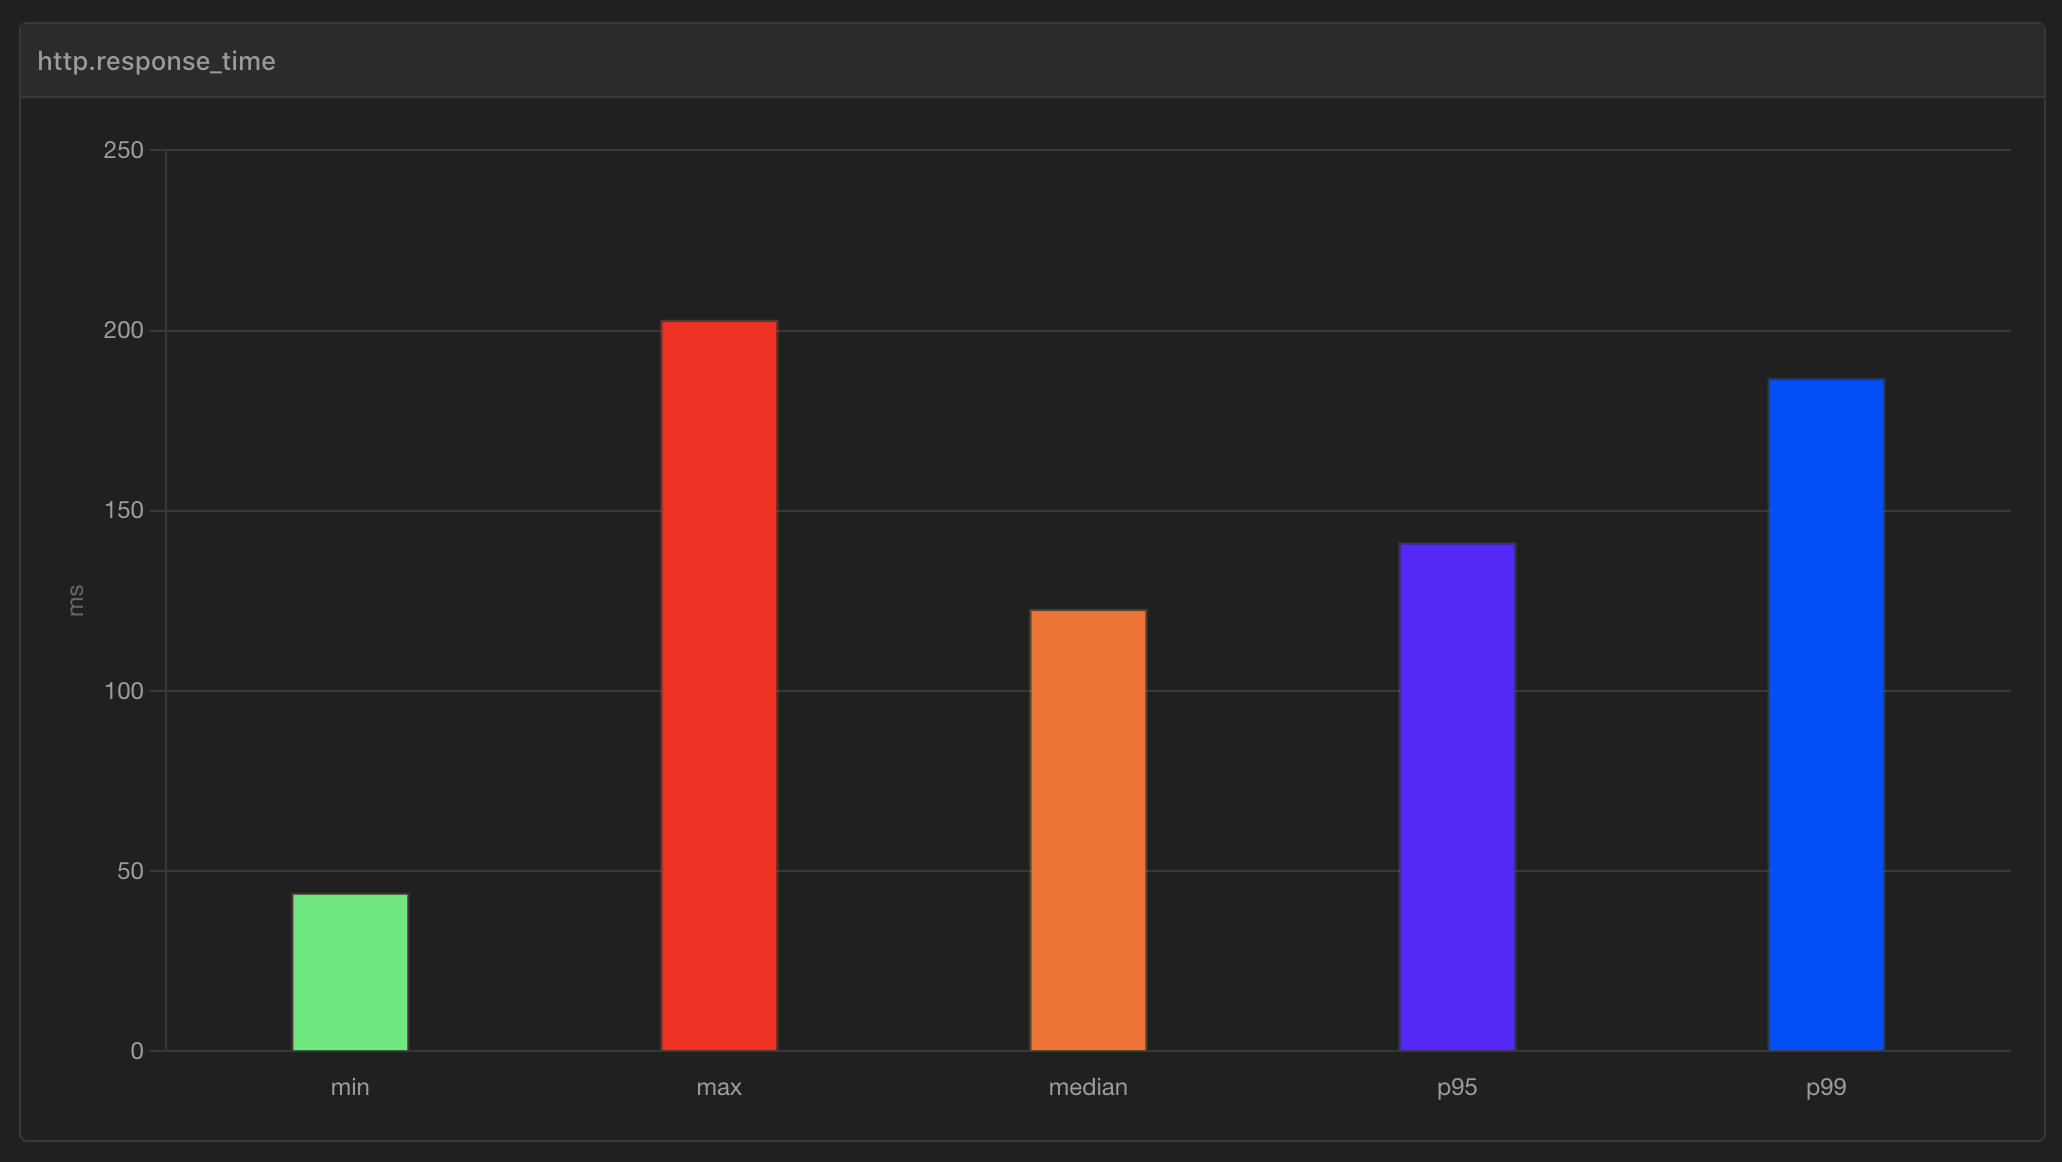
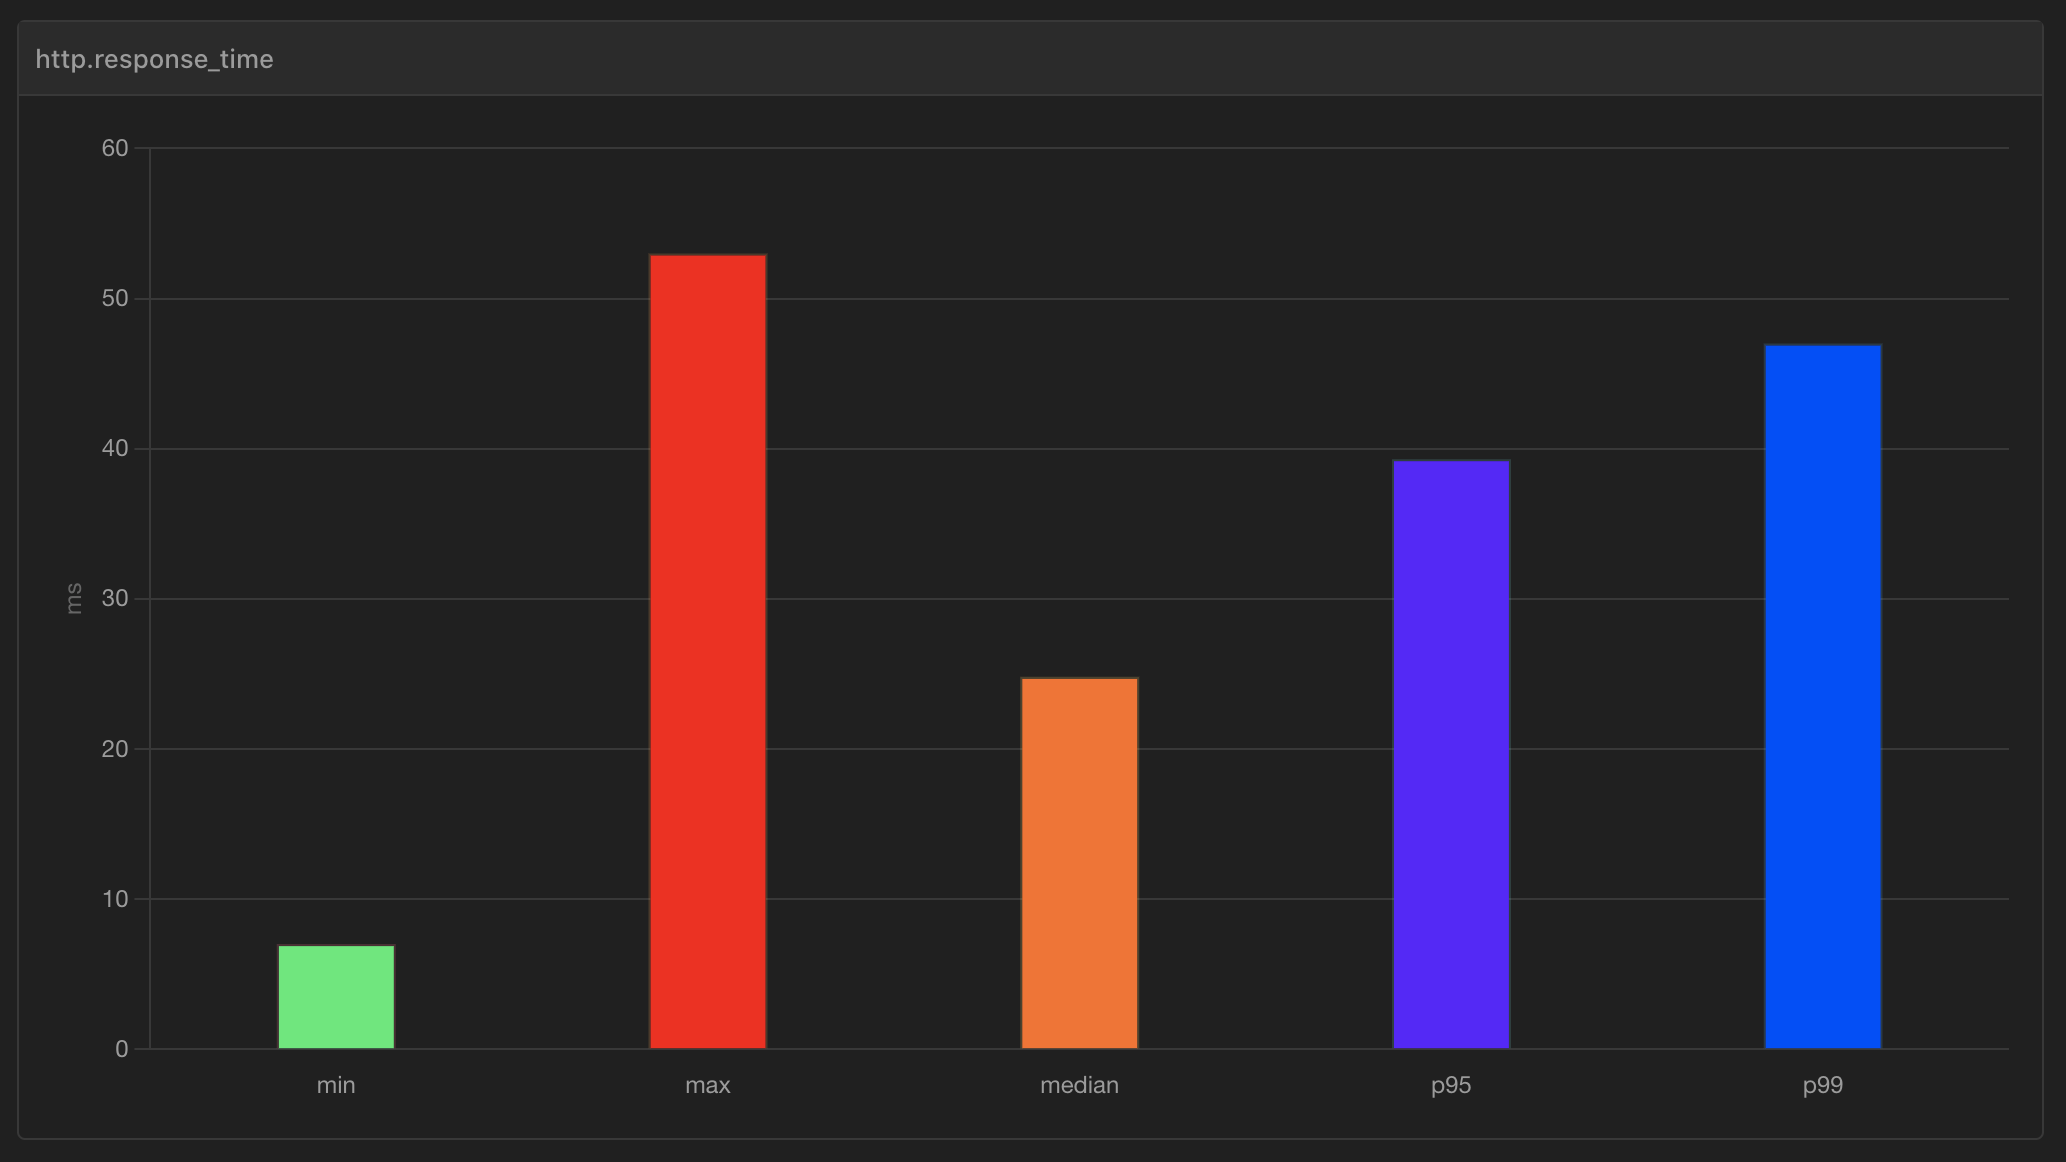
README adjusted with more screenshots on load report files and response time chart

diff --git a/README.md b/README.md
@@ -7,9 +7,10 @@
 5. [API Configuration (rate limiting & throttling)](https://github.com/juanroldan1989/terraform-with-rest-api-gateway-and-lambda-functions#api-configuration-rate-limiting--throttling)
 6. [API Testing](https://github.com/juanroldan1989/terraform-with-rest-api-gateway-and-lambda-functions#api-testing)
 7. [CI/CD (Github Actions -> Terraform -> AWS)](https://github.com/juanroldan1989/terraform-with-rest-api-gateway-and-lambda-functions#cicd-github-actions---terraform---aws)
-8. [REST APIs vs HTTP APIs](https://github.com/juanroldan1989/terraform-with-rest-api-gateway-and-lambda-functions#rest-apis-vs-http-apis)
-9. [API Development Lifecycle](https://github.com/juanroldan1989/terraform-with-rest-api-gateway-and-lambda-functions#api-development-lifecycle)
-10. [Further improvements](https://github.com/juanroldan1989/terraform-with-rest-api-gateway-and-lambda-functions#further-improvements)
+8. [Observability, Error Tracking & Cost Monitoring](https://github.com/juanroldan1989/terraform-with-rest-api-gateway-and-lambda-functions#observability-error-tracking--cost-monitoring)
+9. [REST APIs vs HTTP APIs](https://github.com/juanroldan1989/terraform-with-rest-api-gateway-and-lambda-functions#rest-apis-vs-http-apis)
+10. [API Development Lifecycle](https://github.com/juanroldan1989/terraform-with-rest-api-gateway-and-lambda-functions#api-development-lifecycle)
+11. [Further improvements](https://github.com/juanroldan1989/terraform-with-rest-api-gateway-and-lambda-functions#further-improvements)
 
 <img src="https://github.com/juanroldan1989/terraform-with-rest-api-gateway-and-lambda-functions/raw/main/screenshots/load-test-report.png" width="100%" />
 
@@ -90,7 +91,7 @@ Note:
 
 - To create and deploy **REST APIs**, use Amazon **API Gateway Version 1** resources.
 
-## REST API Gateway - Base Path
+## REST API Gateway - `base` path
 
 Authorization logic applied through `Lambda Authorizer` function:
 
@@ -100,7 +101,7 @@ Authorization logic applied through `Lambda Authorizer` function:
 { "message" : "Missing Authentication Token" }
 ```
 
-## REST API Gateway - Hello Endpoint (public)
+## REST API Gateway - `hello` endpoint (`public`)
 
 ```ruby
 # 3-rest-api-gateway-integration-hello-lambda.tf
@@ -120,7 +121,7 @@ curl https://<api-id>.execute-api.<region>.amazonaws.com/v1/hello
 { "message" : "Hello, world!" }
 ```
 
-## REST API Gateway - Goodbye Endpoint (private with token)
+## REST API Gateway - `goodbye` endpoint (`private` with `token`)
 
 Authorization logic applied through `Lambda Authorizer` function:
 
@@ -150,9 +151,9 @@ $ curl https://<api-id>.execute-api.<region>.amazonaws.com/v1/goodbye \
 { "message" : "Goodbye!" }
 ```
 
-## REST API Gateway - Welcome Endpoint (private with API_KEY)
+## REST API Gateway - `welcome` endpoint (`private` with `API_KEY`)
 
-Authorization logic applied through `API KEY`:
+Authorization logic applied through `API_KEY`:
 
 ```ruby
 # 3-rest-api-gateway-integration-goodbye-lambda.tf
@@ -180,7 +181,7 @@ $ curl https://<api-id>.execute-api.<region>.amazonaws.com/v1/welcome \
 { "message" : "Welcome :)" }
 ```
 
-## REST API Gateway - Scenario: `API Key` provided as URL `parameter`
+## REST API Gateway - Alternative scenario: `API Key` provided as URL `parameter`
 
 https://aws.amazon.com/blogs/compute/accepting-api-keys-as-a-query-string-in-amazon-api-gateway/
 
@@ -257,7 +258,7 @@ Testing is conducted on 3 steps within Github Actions workflow:
 
 1. Lambda Functions (Unit testing) - [Hello Lambda Function](https://github.com/juanroldan1989/terraform-with-rest-api-gateway-and-lambda-functions/blob/main/terraform/hello/tests/unit.test.js)
 2. API Testing (Integration) - [Welcome Lambda Function](https://github.com/juanroldan1989/terraform-with-rest-api-gateway-and-lambda-functions/blob/main/terraform/welcome/tests/integration.test.sh)
-3. API Testing (Load) - [Goodbye Lambda Function](https://github.com/juanroldan1989/terraform-with-rest-api-gateway-and-lambda-functions/blob/main/terraform/goodbye/tests/load_test.yaml)
+3. API Testing (Load) - [Welcome Lambda Function](https://github.com/juanroldan1989/terraform-with-rest-api-gateway-and-lambda-functions/blob/main/terraform/welcome/tests/load_test.yaml)
 
 ## API Load Testing with Artillery
 
@@ -275,63 +276,71 @@ Testing is conducted on 3 steps within Github Actions workflow:
 
 ## API Load Testing Reports
 
-Reports present in `ZIP` file within `Artifacts` section, generated by Github Actions workflow:
+- Reports present in `ZIP` file within `Artifacts` section, generated by Github Actions workflow:
 
 <img src="https://github.com/juanroldan1989/terraform-with-rest-api-gateway-and-lambda-functions/raw/main/screenshots/load-test-report.png" width="100%" />
 
+- Files included within report:
+
+<img src="https://github.com/juanroldan1989/terraform-with-rest-api-gateway-and-lambda-functions/raw/main/screenshots/load-test-report-files.png" width="50%" />
+
 ## API Load Testing Conditions
 
-Load testing results for `hello` endpoint -> `response time` for 95% of requests (`p95` parameter) is close to `150ms`:
+Load testing results for `hello` endpoint -> `response time` for 95% of requests (`p95` parameter) is close to `40ms`:
 
 <img src="https://github.com/juanroldan1989/terraform-with-rest-api-gateway-and-lambda-functions/raw/main/screenshots/load-test-response-time-hello-endpoint.png" width="100%" />
 
 - It's possible to configure Artillery to return a non-zero exit code if the test run doesn't comply with **specified conditions based on a set of parameters** like error rate, minimum, maximum and percentile based latency or **response time.**
 
-- The following configuration **will ensure that at least 95% of requests are executed below 200ms**, otherwise, the command will exit with an error.
+- The following configuration **will ensure that at least 95% of requests are executed below 50ms** (helps to include some buffer for warm up time), otherwise, the command will exit with an error.
 
 ```ruby
 config:
   ensure:
-    p95: 200
+    p95: 50
 ```
 
 - This is really useful in a CI environment as you can make the test fail **if it doesn't meet your performance requirements.**
 
 ## Testing Lambda Authorizer (AWS Console)
 
-- AWS Reference for 401 errors: https://aws.amazon.com/premiumsupport/knowledge-center/api-gateway-401-error-lambda-authorizer/
+### 1. `Authorization` header with `allow` value
 
 <img src="https://github.com/juanroldan1989/terraform-with-rest-api-gateway-and-lambda-functions/raw/main/screenshots/1.png" width="100%" />
 
+### 2. `Authorization` header with `deny` value
+
 <img src="https://github.com/juanroldan1989/terraform-with-rest-api-gateway-and-lambda-functions/raw/main/screenshots/2.png" width="100%" />
+
+AWS Reference for `401` errors: https://aws.amazon.com/premiumsupport/knowledge-center/api-gateway-401-error-lambda-authorizer/
 
 ## Testing for token-based Lambda authorizers (Postman)
 
 If `Lambda Event Payload` is set as `Token`, then check the `Token Source` value. The `Token Source` value must be used as the `request header` in calls to your API:
 
-<img src="https://github.com/juanroldan1989/terraform-with-rest-api-gateway-and-lambda-functions/raw/main/screenshots/3.png" width="100%" />
+<img src="https://github.com/juanroldan1989/terraform-with-rest-api-gateway-and-lambda-functions/raw/main/screenshots/3.png" width="75%" />
 
-### 1. Postman - `Authorization` Header with `allow` value
+### 1. Postman - `Authorization` header with `allow` value
 
-<img src="https://github.com/juanroldan1989/terraform-with-rest-api-gateway-and-lambda-functions/raw/main/screenshots/4.png" width="100%" />
+<img src="https://github.com/juanroldan1989/terraform-with-rest-api-gateway-and-lambda-functions/raw/main/screenshots/4.png" width="75%" />
 
-### 2. Postman - `Authorization` Header with `deny` value
+### 2. Postman - `Authorization` header with `deny` value
 
-<img src="https://github.com/juanroldan1989/terraform-with-rest-api-gateway-and-lambda-functions/raw/main/screenshots/5.png" width="100%" />
+<img src="https://github.com/juanroldan1989/terraform-with-rest-api-gateway-and-lambda-functions/raw/main/screenshots/5.png" width="75%" />
 
-### 3. Postman - `Authorization` Header not included in request
+### 3. Postman - `Authorization` header not included in request
 
-<img src="https://github.com/juanroldan1989/terraform-with-rest-api-gateway-and-lambda-functions/raw/main/screenshots/6.png" width="100%" />
+<img src="https://github.com/juanroldan1989/terraform-with-rest-api-gateway-and-lambda-functions/raw/main/screenshots/6.png" width="75%" />
 
 # CI/CD (Github Actions -> Terraform -> AWS)
 
-- Deployment can be triggered from `GIT commit messages` by including `[deploy]`
+- Deployment can be triggered from `GIT commit messages` by including `[deploy]`.
 
-- Deployment can be triggered `manually` using Terraform CLI within `terraform` folder
+- Deployment can be triggered `manually` using Terraform CLI within `terraform` folder.
 
-- Pre-Deployment `linting` and `unit_tests` steps triggered through Github Actions
+- **Pre Deployment** `linting` and `unit_tests` steps triggered through Github Actions.
 
-- Post-Deployment `integration_tests` and `load_tests` steps triggered through Github Actions
+- **Post Deployment** `integration_tests` and `load_tests` steps triggered through Github Actions.
 
 <img src="https://github.com/juanroldan1989/terraform-with-rest-api-gateway-and-lambda-functions/raw/main/screenshots/load-test-report.png" width="100%" />
 
@@ -352,6 +361,25 @@ on:
   pull_request:
 ...
 ```
+
+# Observability, Error Tracking & Cost Monitoring
+
+## Observability
+
+End-to-end observability for serverless: https://dashbird.io/serverless-observability/
+
+## Error Tracking
+
+Error tracking across all serverless services:
+
+- https://dashbird.io/failure-detection/
+- https://dashbird.io/aws-lambda-monitoring/
+
+## Cost Monitoring
+
+AWS Lambda Calculator: https://dashbird.io/lambda-cost-calculator/
+
+Optimizing AWS Lambda functions: https://aws.amazon.com/blogs/compute/optimizing-your-aws-lambda-costs-part-1/
 
 # REST APIs vs HTTP APIs
 
@@ -385,24 +413,19 @@ on:
 7. Apply `linting` best practices to new function file.
 8. Add `unit`, `integration`, `load_test` steps into Github Actions (`ci_cd.yml`) following the same pattern as other lambda functions.
 9. Commit changes in your `feature branch` and create a `New Pull Request`.
-10. `Github Actions` workflow will be triggered in your new branch.
+10. **Pre Deployment** `Github Actions` workflow will be triggered in your new branch:
+
+<img src="https://github.com/juanroldan1989/terraform-with-rest-api-gateway-and-lambda-functions/raw/main/screenshots/pre-deployment-steps.png" width="100%" />
+
 11. Validate `workflow run` results.
 12. Once everything is validated by yourself and/or colleagues, push a new commit (it could be an empty one) with the word `[deploy]`.
-13. This will trigger the **entire github actions workflow** end to end:
+13. This will trigger **pre deployment** and **post deployment** steps within the **entire github actions workflow**:
 
-    13.a. Lambda Functions (Linting)
-
-    13.b. Lambda Functions (Unit Testing)
-
-    13.c. Deploy (Terraform -> AWS)
-
-    13.d. API Testing (Integration)
-
-    13.e. API Testing (Load)
+<img src="https://github.com/juanroldan1989/terraform-with-rest-api-gateway-and-lambda-functions/raw/main/screenshots/pre-and-post-deployment-steps.png" width="100%" />
 
 14. Once everything is validated by yourself and/or colleagues, you can merge your branch into `main`.
 
-15. Once Github Actions workflow runs, there is the possibility of sending notifications with workflow results into Slack channel/s:
+15. Once Github Actions workflow is successfully completed, a valuable addition is sending a **notification** with workflow results into **Slack channel/s**:
 
 ```ruby
 # .github/workflows/ci_cd.yml
@@ -435,7 +458,7 @@ send-notification:
 
 # Further improvements
 
-## Deployment
+## Deployment with extra conditions
 
 - In the same way `deployment` can be triggered via GIT Commit messages, we can apply a similar behavior to each `linting`, `unit_tests`, `integration_tests` and/or `load_tests` steps within Github Actions workflows:
 
